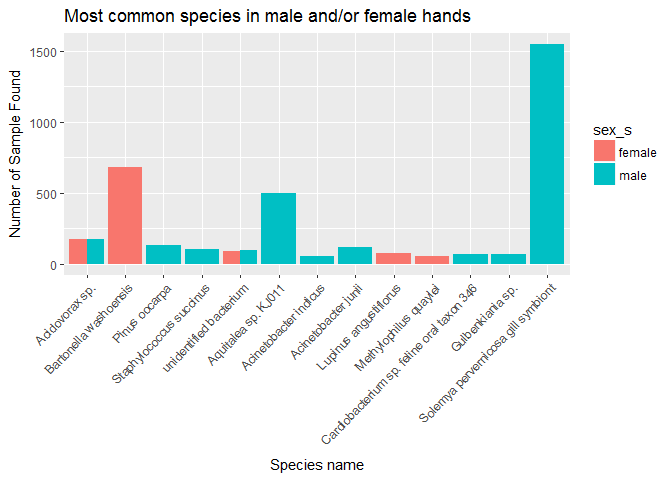
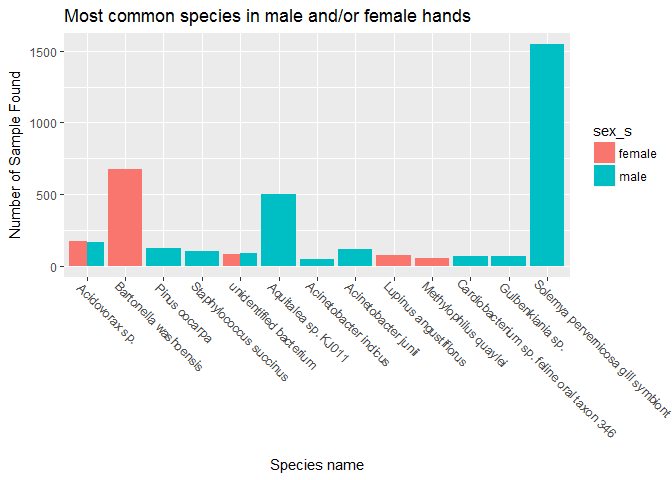
adjust axis labels on figures 4, 5, and 6

diff --git a/Analysis_of_BLAST_Results.md b/Analysis_of_BLAST_Results.md
@@ -243,7 +243,7 @@ joined_blast_data_metadata %>%
              fill = sex_s)) +
   geom_bar(stat = "Identity",
            position = "Dodge") +
-  theme(axis.text.x = element_text(angle = 46, hjust = 1)) +
+  theme(axis.text.x = element_text(angle = -45, hjust = 0.05)) +
   ggtitle("Most common species in male and/or female hands") +
   xlab("Species name") +
   ylab("Number of Sample Found")
@@ -267,10 +267,20 @@ mf_in_common <- joined_blast_data_metadata %>%
 # similar among the sexes, and graphs the 10 most
 # abundant species from the 30 most similar species
 mf_in_common %>%
+# first, we make 2 new columns with the percent of
+# total matches in male/female hands each species
+# makes up. Using the raw totals would throw off the
+# analysis, because there was a different total of
+# sequences in male vs female hands
   mutate(f_pcnt = female / sum(mf_in_common$female, na.rm = TRUE),
          m_pcnt = male / sum(mf_in_common$male, na.rm = TRUE)) %>%
+# next, we change all of the blank slots where one
+# of the sexes had no sequences from a blank to a 0
   mutate(f_pcnt = ifelse(is.na(f_pcnt), 0, f_pcnt),
          m_pcnt = ifelse(is.na(m_pcnt), 0, m_pcnt)) %>%
+# then, we find the absolute value of the difference
+# between the two percent values, so we can find which
+# species have the smallest difference
   mutate(diff = abs(f_pcnt - m_pcnt)) %>%
   mutate(m_f = female + male, mf_pcnt = m_pcnt + f_pcnt) %>%
   arrange(desc(m_f)) %>%
@@ -285,8 +295,8 @@ mf_in_common %>%
              fill = gender)) +
   geom_bar(stat = "Identity",
            position = "dodge") +
-  theme(axis.text.x = element_text(angle = 75, hjust = 1)) +
-  ggtitle("Most common speceis among male and female hands") +
+  theme(axis.text.x = element_text(angle = -20, hjust = 0.05)) +
+  ggtitle("Most common species (by total) among male and female hands") +
   xlab("Species name") +
   ylab("Number of species found")
 ```
